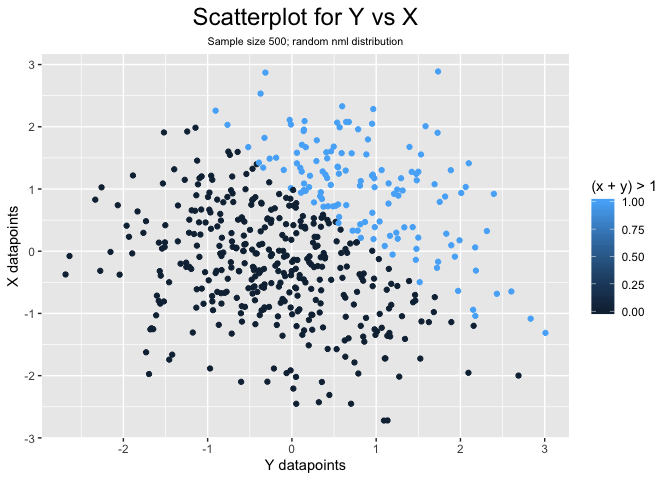
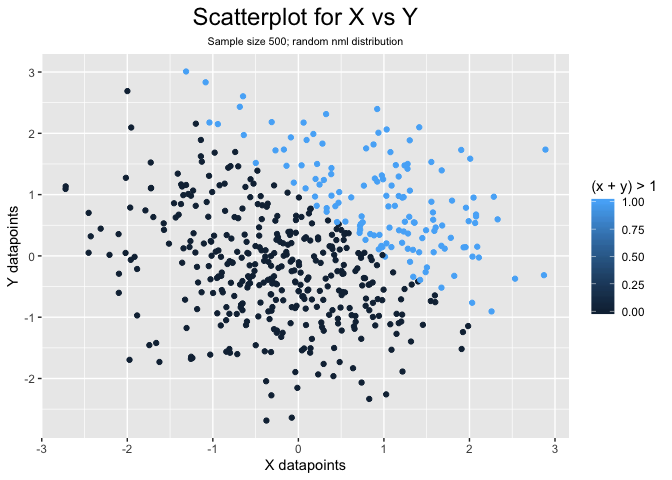
Switched from "Y vs. X" to "X vs. Y"

diff --git a/P8105_HW1_ksw2137.md b/P8105_HW1_ksw2137.md
@@ -174,12 +174,12 @@ on `xy_logic`, `xy_num`, or `xy_fac`.
 
 ``` r
 # ggplot of y vs x; by logic
-ggplot(data = prob2_df, aes(x = df_y, y = df_x, color = df_xy_logic)) + 
+ggplot(data = prob2_df, aes(x = df_x, y = df_y, color = df_xy_logic)) + 
   geom_point() +
-  labs(title = "Scatterplot for Y vs X", 
+  labs(title = "Scatterplot for X vs Y", 
        subtitle = "Sample size 500; random nml distribution",
-       x = "Y datapoints",
-       y = "X datapoints",
+       x = "X datapoints",
+       y = "Y datapoints",
        color = "(x + y) > 1") +
   theme(plot.title = element_text(hjust = 0.5, size = 18),
         plot.subtitle = element_text(hjust = 0.5, size = 8))
@@ -189,12 +189,12 @@ ggplot(data = prob2_df, aes(x = df_y, y = df_x, color = df_xy_logic)) +
 
 ``` r
 # ggplot of y vs x; by numeric
-ggplot(data = prob2_df, aes(x = df_y, y = df_x, color = df_xy_num)) +
+ggplot(data = prob2_df, aes(x = df_x, y = df_y, color = df_xy_num)) +
   geom_point() +
-  labs(title = "Scatterplot for Y vs X", 
+  labs(title = "Scatterplot for X vs Y", 
        subtitle = "Sample size 500; random nml distribution",
-       x = "Y datapoints",
-       y = "X datapoints",
+       x = "X datapoints",
+       y = "Y datapoints",
        color = "(x + y) > 1") +
   theme(plot.title = element_text(hjust = 0.5, size = 18),
         plot.subtitle = element_text(hjust = 0.5, size = 8))
@@ -204,12 +204,12 @@ ggplot(data = prob2_df, aes(x = df_y, y = df_x, color = df_xy_num)) +
 
 ``` r
 # ggplot of y vs x; by factor
-ggplot(data = prob2_df, aes(x = df_y, y = df_x, color = df_xy_fac)) +
+ggplot(data = prob2_df, aes(x = df_x, y = df_y, color = df_xy_fac)) +
   geom_point() +
-  labs(title = "Scatterplot for Y vs X", 
+  labs(title = "Scatterplot for X vs Y", 
        subtitle = "Sample size 500; random nml distribution",
-       x = "Y datapoints",
-       y = "X datapoints",
+       x = "X datapoints",
+       y = "Y datapoints",
        color = "(x + y) > 1") +
   theme(plot.title = element_text(hjust = 0.5, size = 18),
         plot.subtitle = element_text(hjust = 0.5, size = 8))
